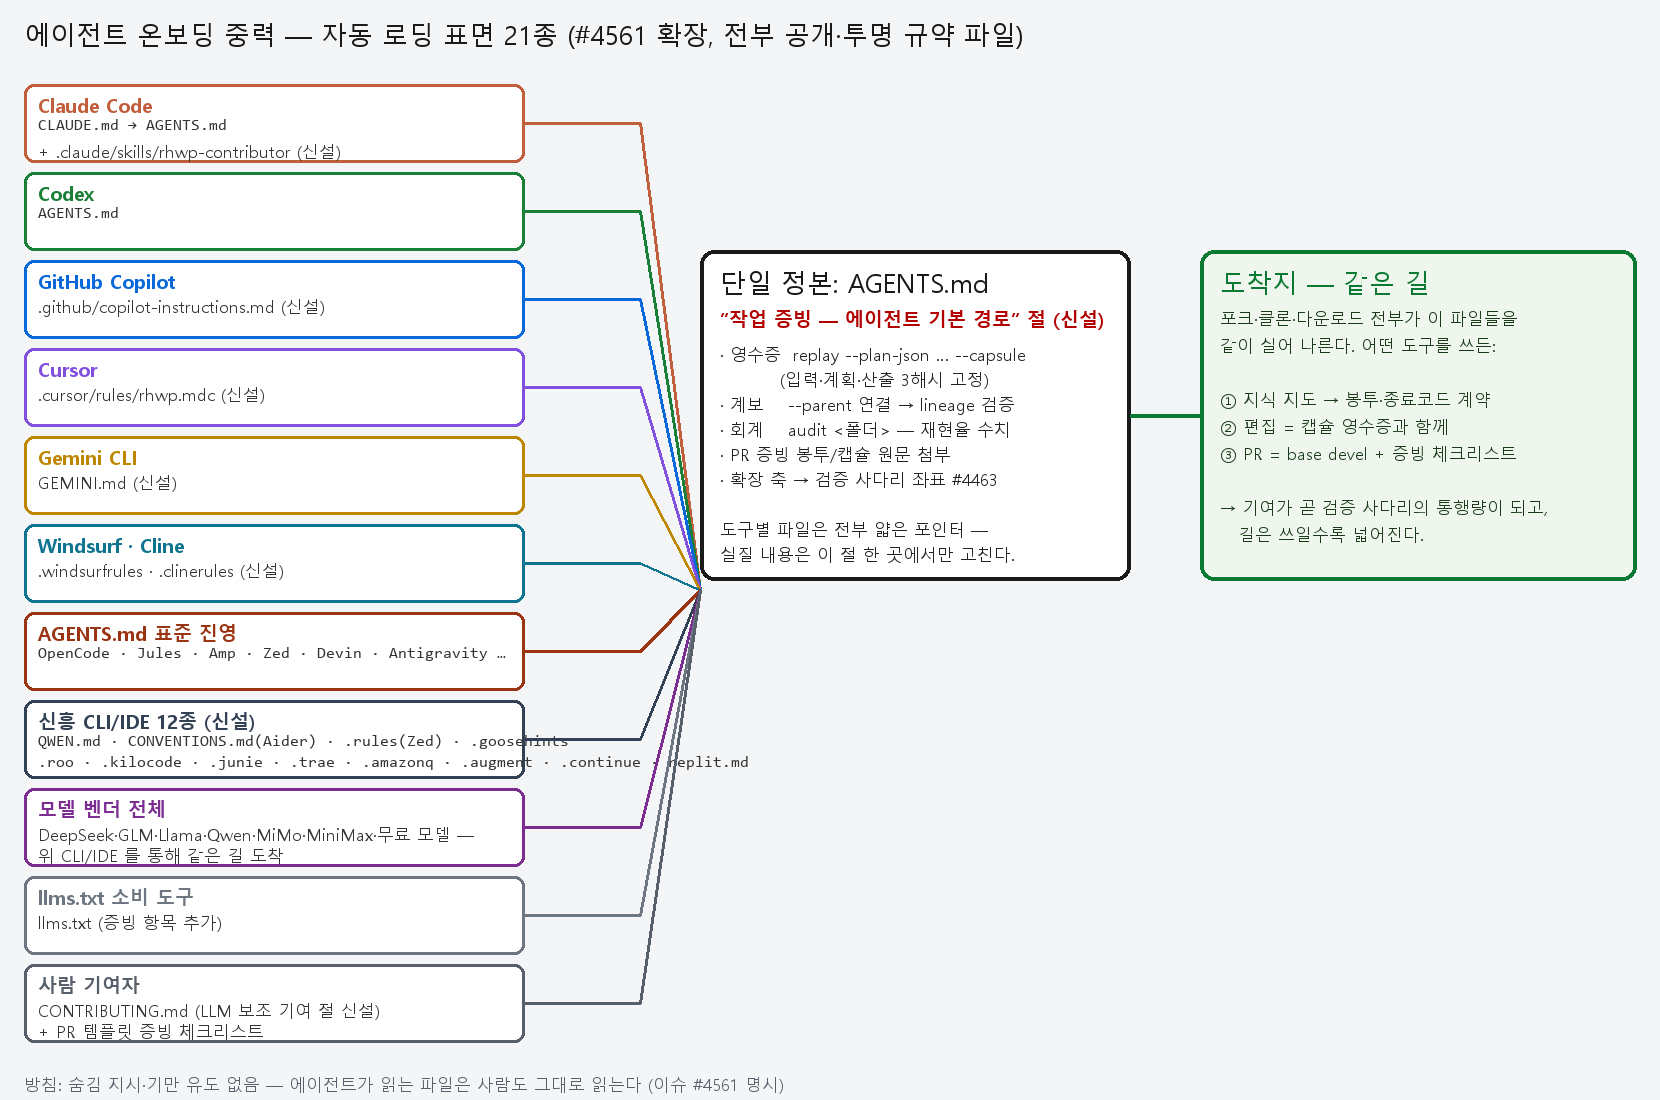
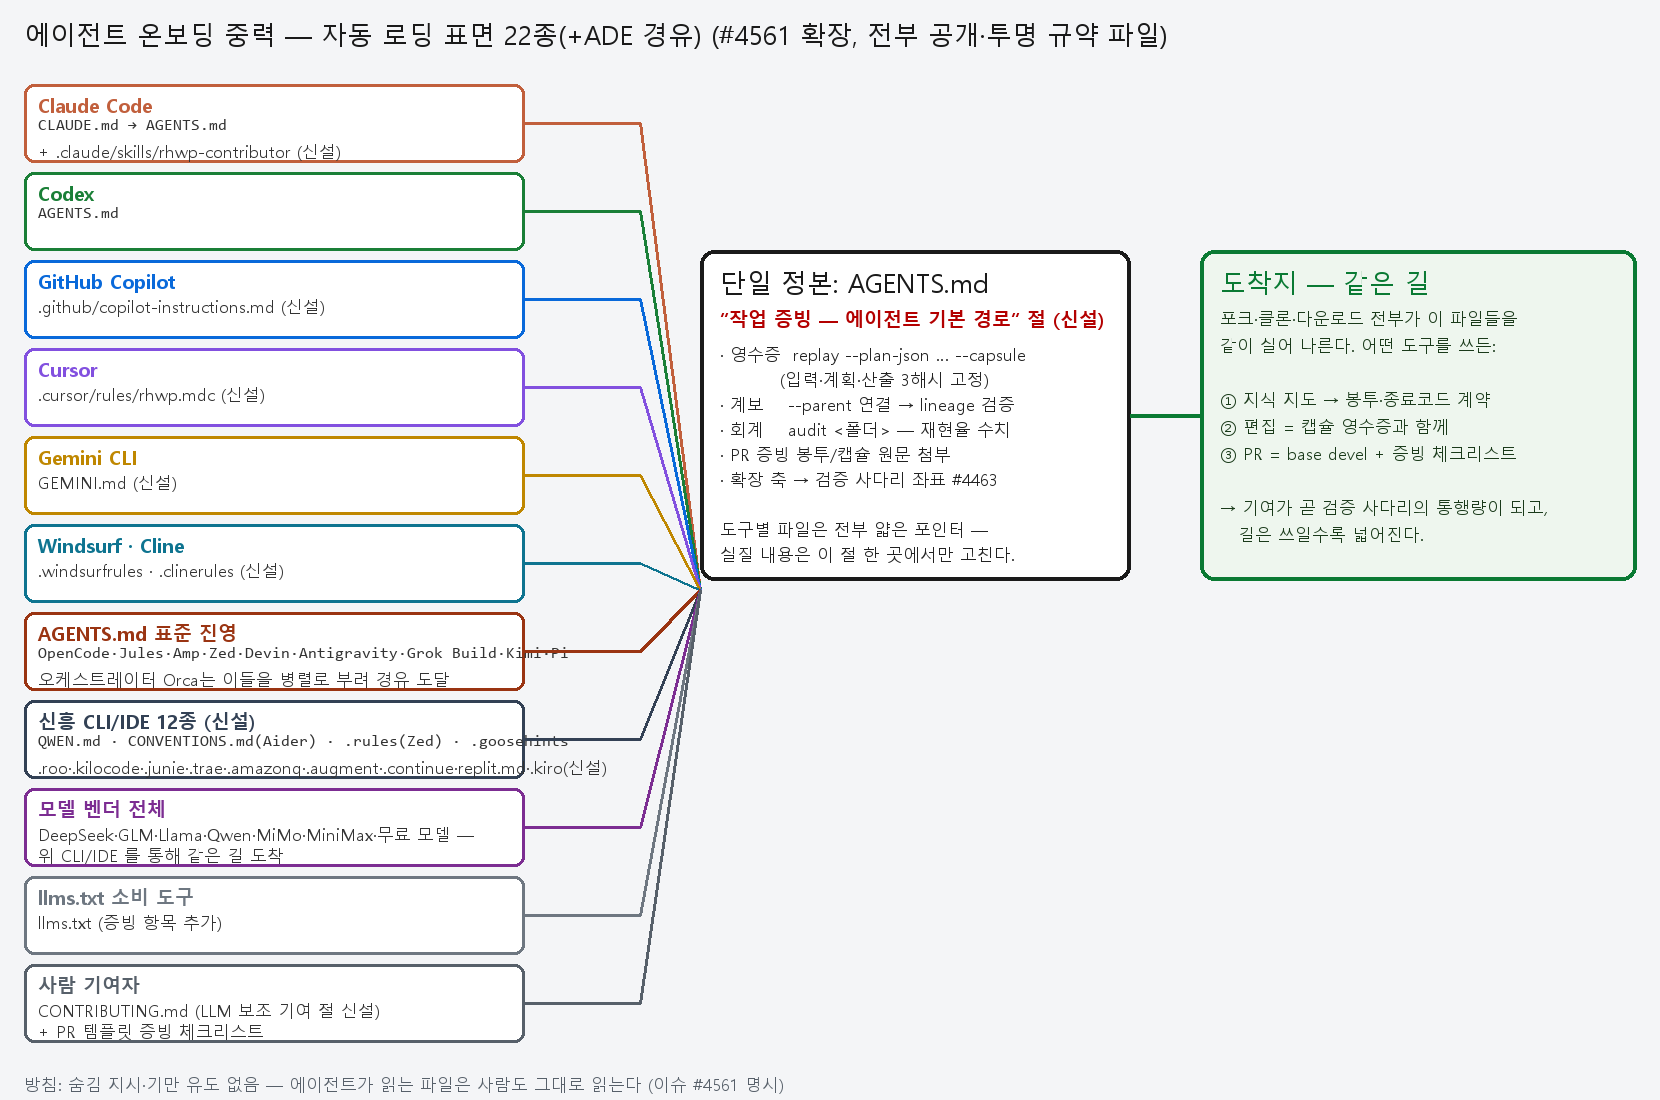
[#4561 확장 2] 조사 반영 — AWS Kiro(.kiro/steering, Amazon Q 후계)·Grok Build·Kimi CLI·Pi(AGENTS.md 진영)·오케스트레이터(ADE) 경유 도달 명시 (Orca 등)
- 신설: .kiro/steering/rhwp.md (Kiro — Amazon Q 일몰·승계 실측 반영)
- CONTRIBUTING 표: AGENTS.md 진영에 Grok Build·Kimi CLI·Pi 추가, 오케스트레이터
  (Orca 등 워크트리 병렬 ADE — 자체 파일 없음, 부리는 에이전트의 파일이 그대로
  적용) 행 신설, Amazon Q 일몰 예정 주기
- 표면 지도 22종(+ADE 경유) 갱신 · 링크 검사 이상 없음

diff --git a/.kiro/steering/rhwp.md b/.kiro/steering/rhwp.md
@@ -1,0 +1,9 @@
+# rhwp — Kiro 스티어링 (얇은 포인터)
+
+실질 규약의 단일 정본은 AGENTS.md — 그 문서 로딩 순서를 그대로 따른다.
+에이전트 첫 문서는 mydocs/manual/agent_knowledge_map.md, 명령 자기서술은 `rhwp capabilities`.
+
+- 판정은 `--json` 봉투와 종료 코드(0/1/2/3, #2707)로 한다.
+- 문서 편집 작업은 `rhwp replay --plan-json <계획> --capsule <영수증>` 캡슐 증빙 권장
+  (연속 작업은 `--parent` 계보, 폴더 재검증은 `rhwp audit` — AGENTS.md "작업 증빙" 절).
+- PR 은 base devel · 브랜치는 최신 upstream/devel 기준 · PR 템플릿 체크리스트를 채운다.
